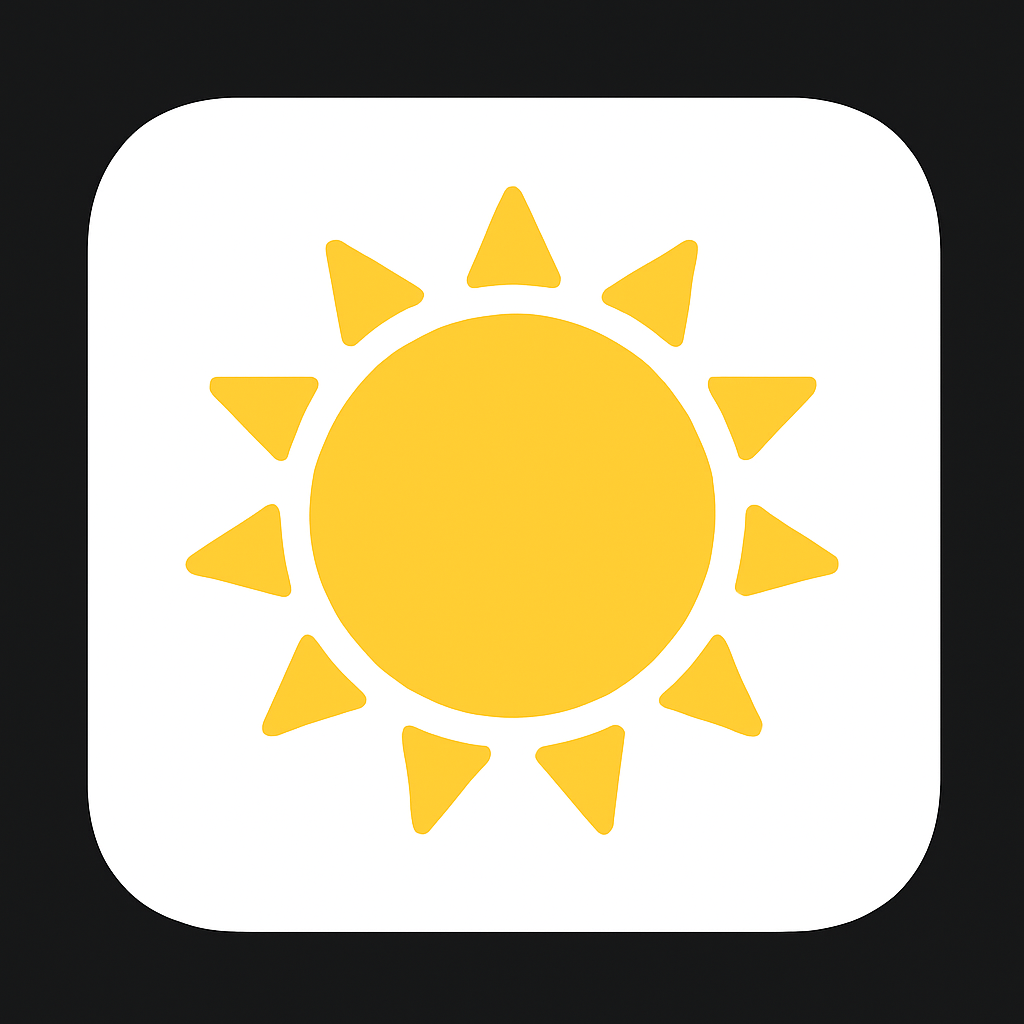
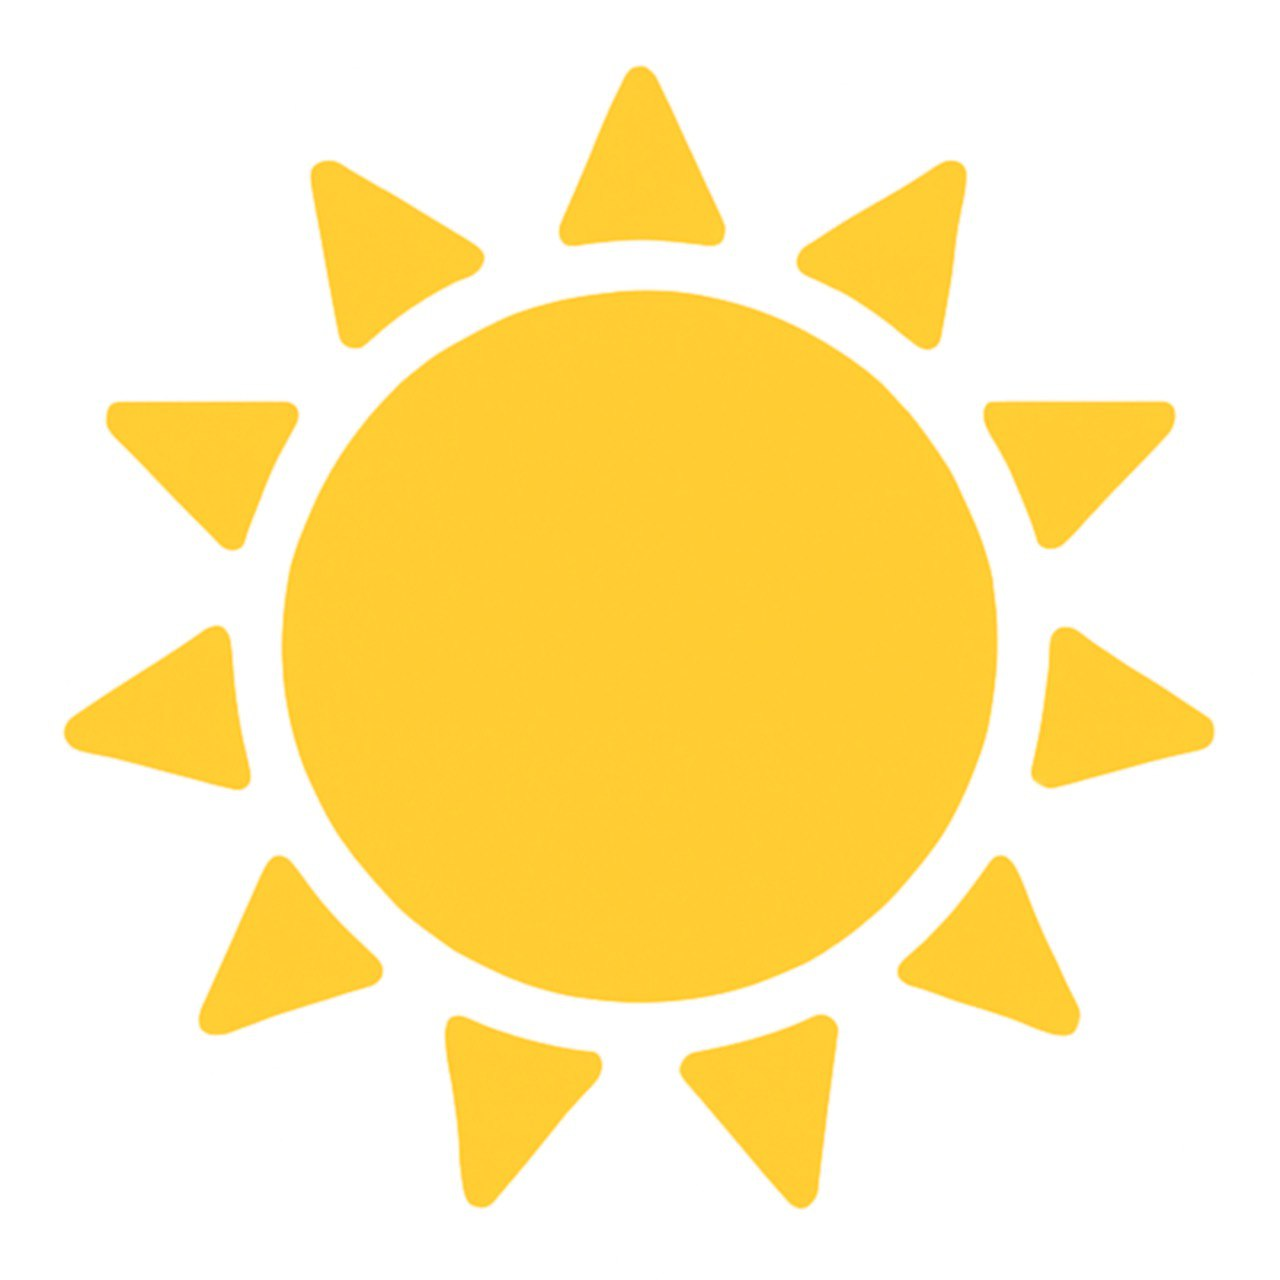
update

diff --git a/index.html b/index.html
@@ -1205,7 +1205,9 @@
       // Get base path from current location
       const path = window.location.pathname;
       const basePath = path.includes('/Solar-System/') ? '/Solar-System/' : '/';
-      const iconPath = basePath + 'SolarIcon.png';
+      // Add timestamp to force browser to reload the icon (cache busting)
+      const timestamp = new Date().getTime();
+      const iconPath = basePath + 'SolarIcon.png?v=' + timestamp;
       
       // Set all favicon sizes to the same icon
       ['favicon', 'favicon-16', 'favicon-32', 'favicon-192', 'apple-icon'].forEach(id => {
@@ -1214,6 +1216,13 @@
           icon.href = iconPath;
         }
       });
+      
+      // Also set favicon directly for immediate update
+      const link = document.querySelector("link[rel*='icon']") || document.createElement('link');
+      link.type = 'image/png';
+      link.rel = 'icon';
+      link.href = iconPath;
+      document.getElementsByTagName('head')[0].appendChild(link);
     })();
     
     function toggleCelestialPanel() {
